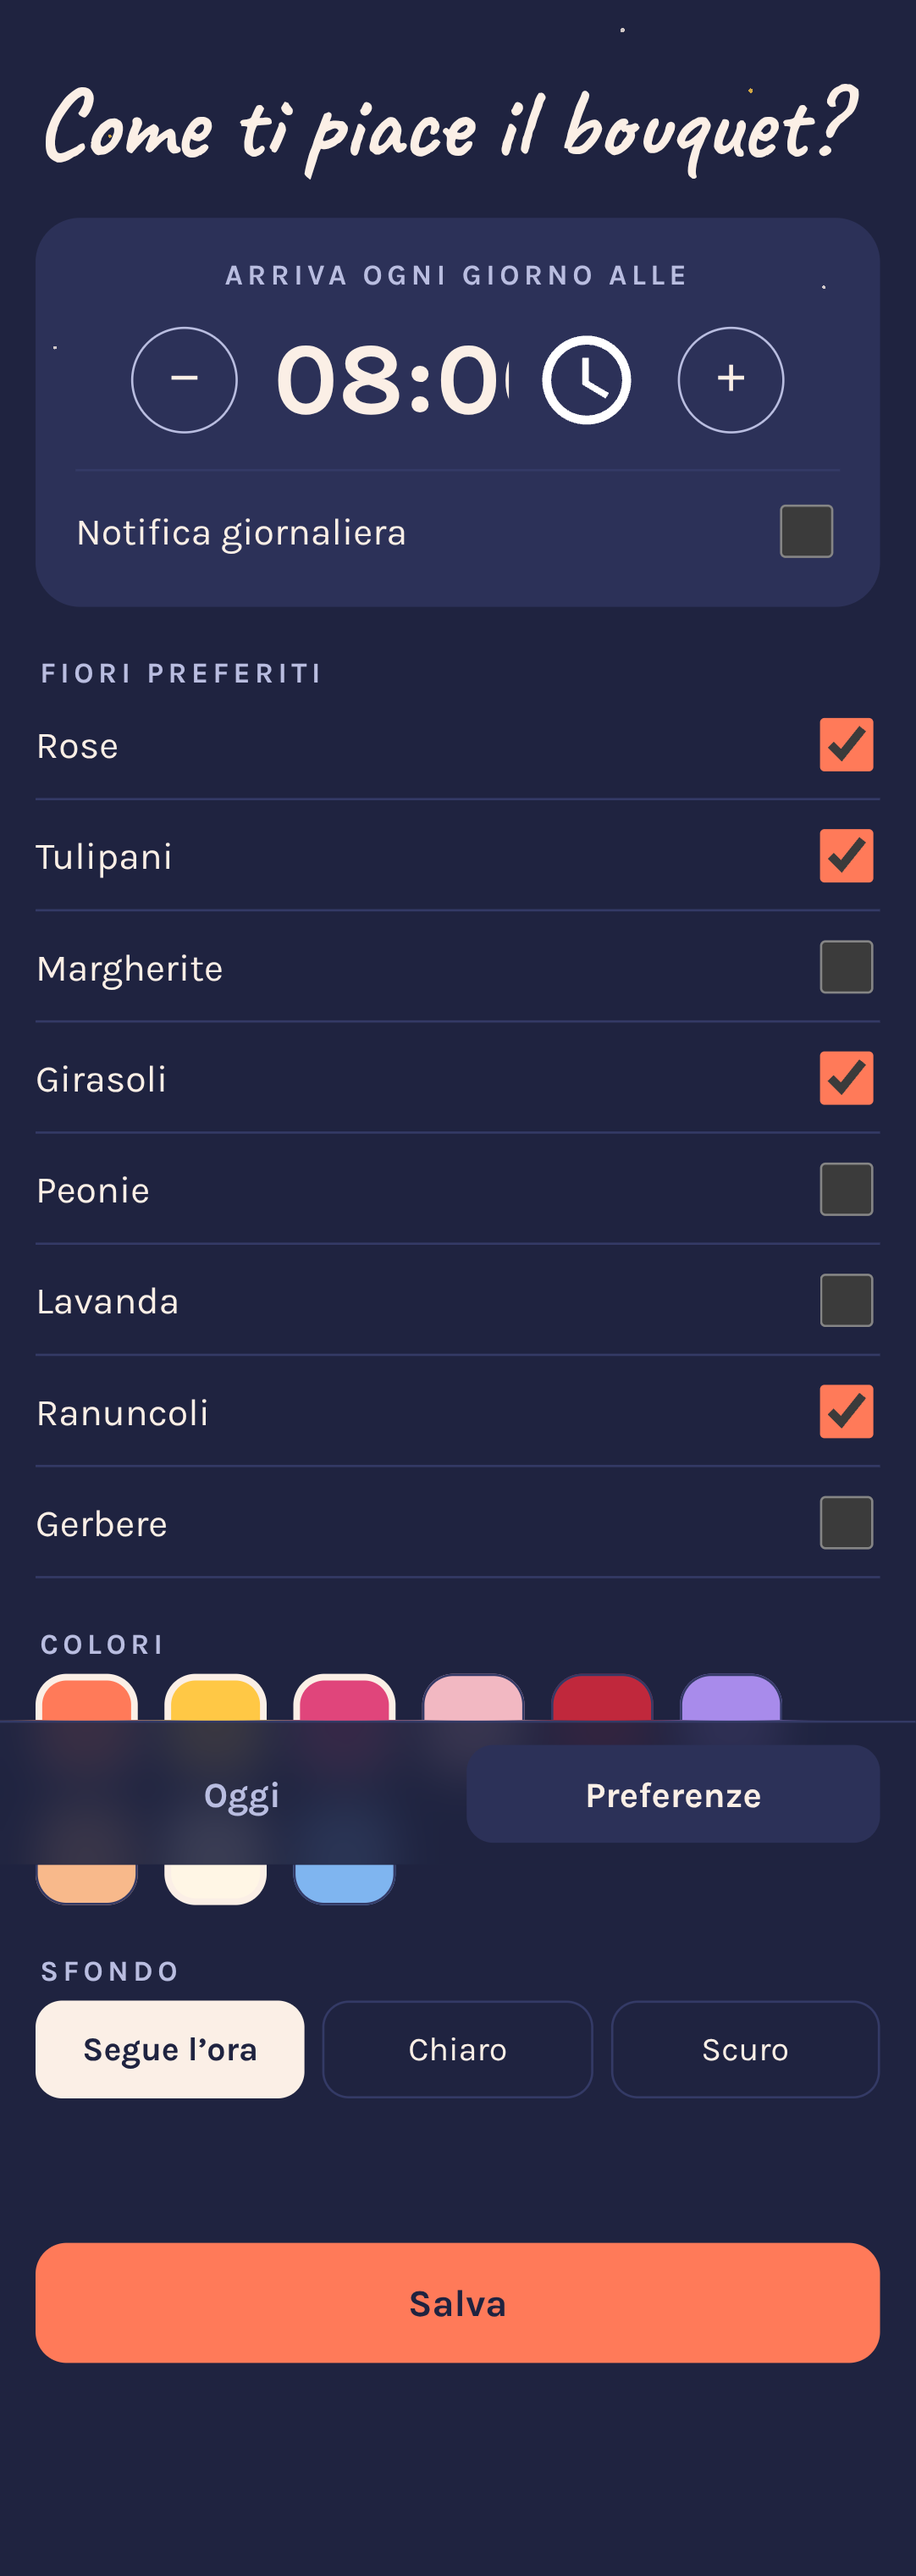
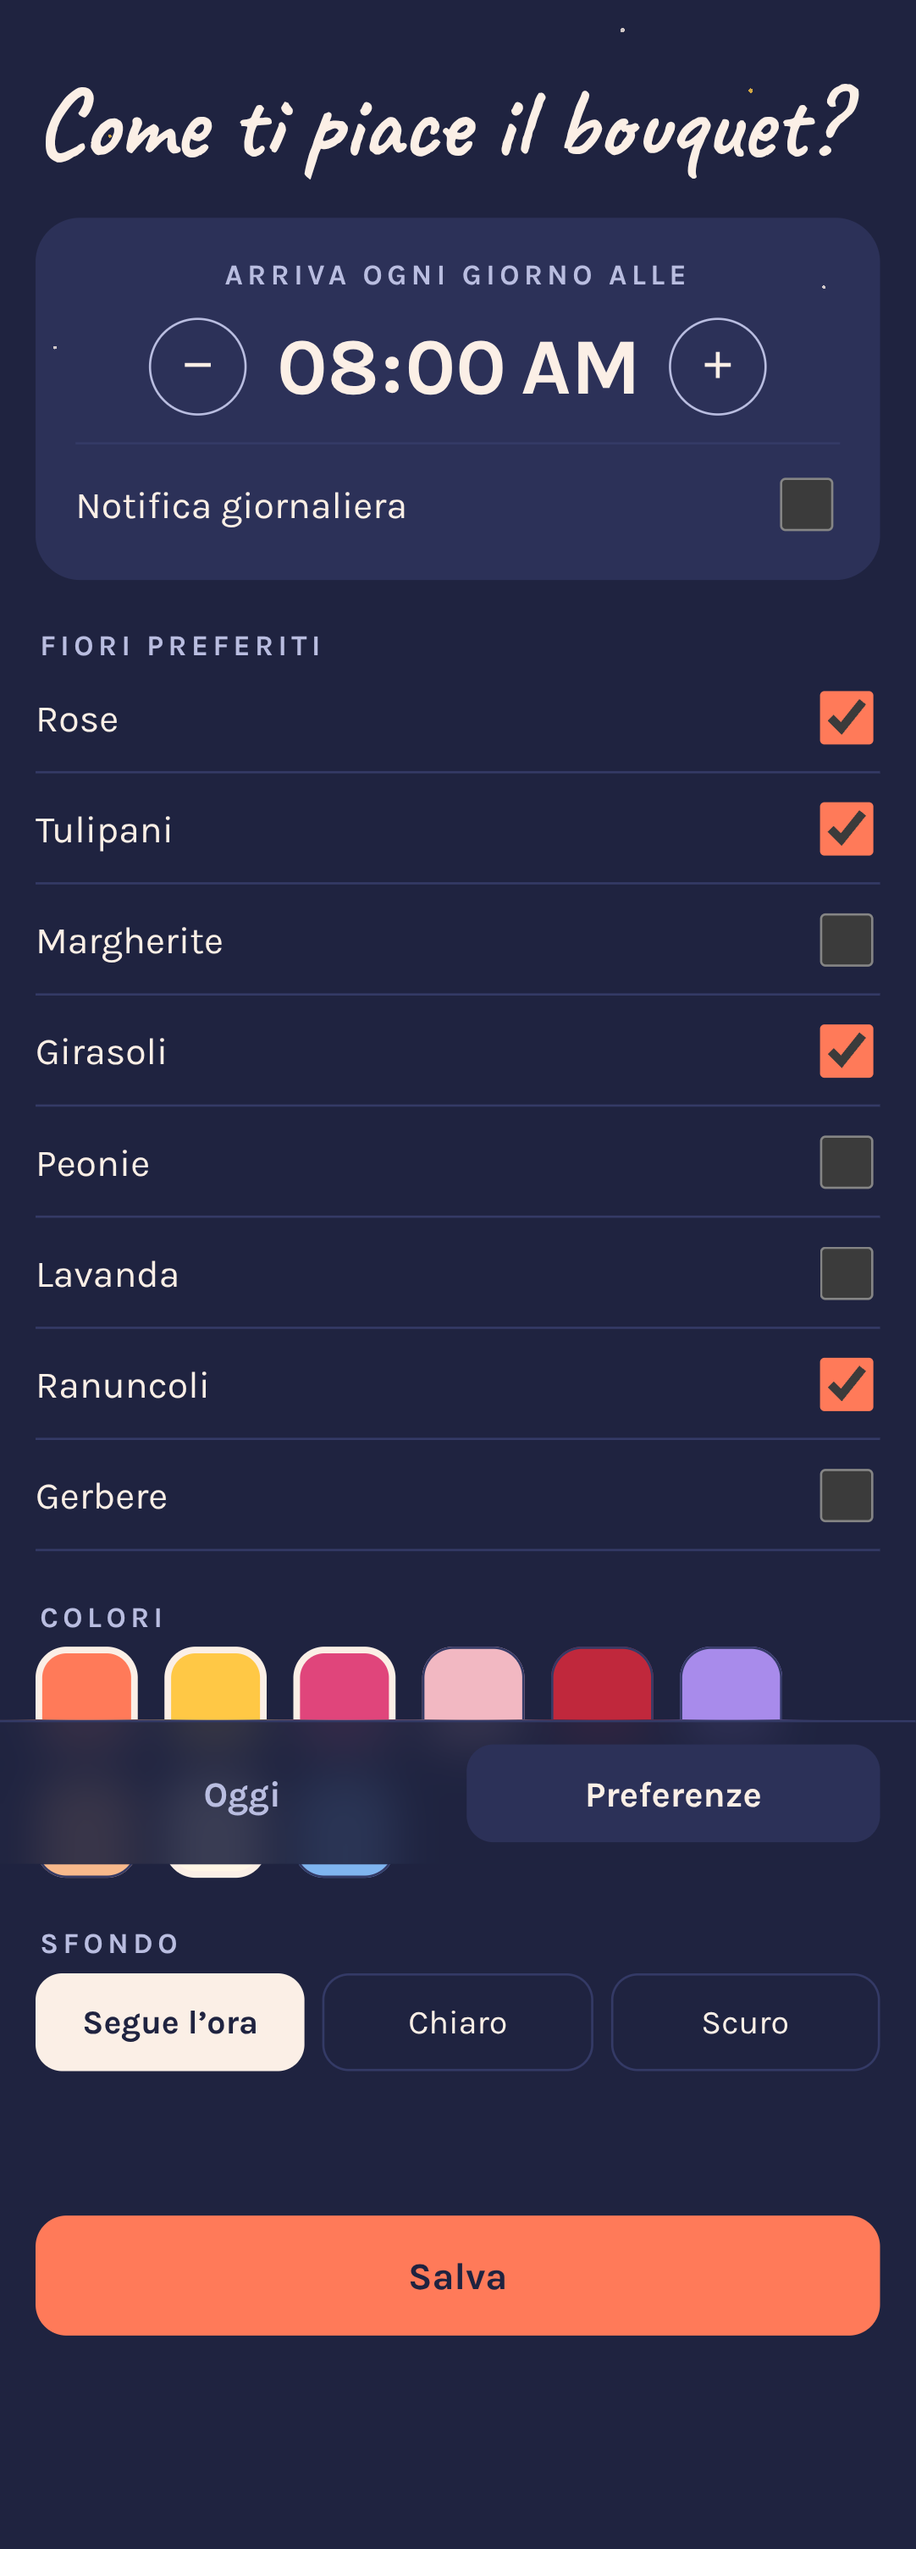
Preferences: time field fits 24h and 12h clock formats without clipping
Claude-Session: https://claude.ai/code/session_01SbsT87TD1343LuyEFuhcE8

diff --git a/web/src/styles.css b/web/src/styles.css
@@ -141,13 +141,17 @@ body {
 .kicker { font-size: 13px; letter-spacing: 0.16em; text-transform: uppercase; color: var(--muted); font-weight: 700; }
 .panel { background: var(--surface); border-radius: var(--radius); padding: 18px; display: flex; flex-direction: column; gap: 12px; }
 .time-panel { align-items: center; }
-.time-row { display: flex; align-items: center; gap: 14px; }
+.time-row { display: flex; align-items: center; gap: 10px; }
 .time-row input {
-  font: 700 46px 'Karla', sans-serif; font-variant-numeric: tabular-nums;
-  background: transparent; color: var(--ink); border: none; text-align: center; width: 170px;
+  font: 700 36px 'Karla', sans-serif; font-variant-numeric: tabular-nums;
+  background: transparent; color: var(--ink); border: none; text-align: center;
+  /* Grows to fit "08:00" or "08:00 AM", whichever clock format the device uses. */
+  width: 170px; field-sizing: content; min-width: 130px; max-width: 220px;
 }
+/* The native clock icon would clip the digits; tapping the field still opens the picker. */
+.time-row input::-webkit-calendar-picker-indicator { display: none; }
 .round-btn {
-  width: 48px; height: 48px; border-radius: 50%; border: 1.5px solid var(--muted);
+  flex: none; width: 44px; height: 44px; border-radius: 50%; border: 1.5px solid var(--muted);
   background: transparent; color: var(--ink); font-size: 24px; cursor: pointer;
 }
 .switch-row { align-self: stretch; display: flex; justify-content: space-between; align-items: center; min-height: 44px; border-top: 1px solid var(--line); padding-top: 10px; font-size: 17px; }
